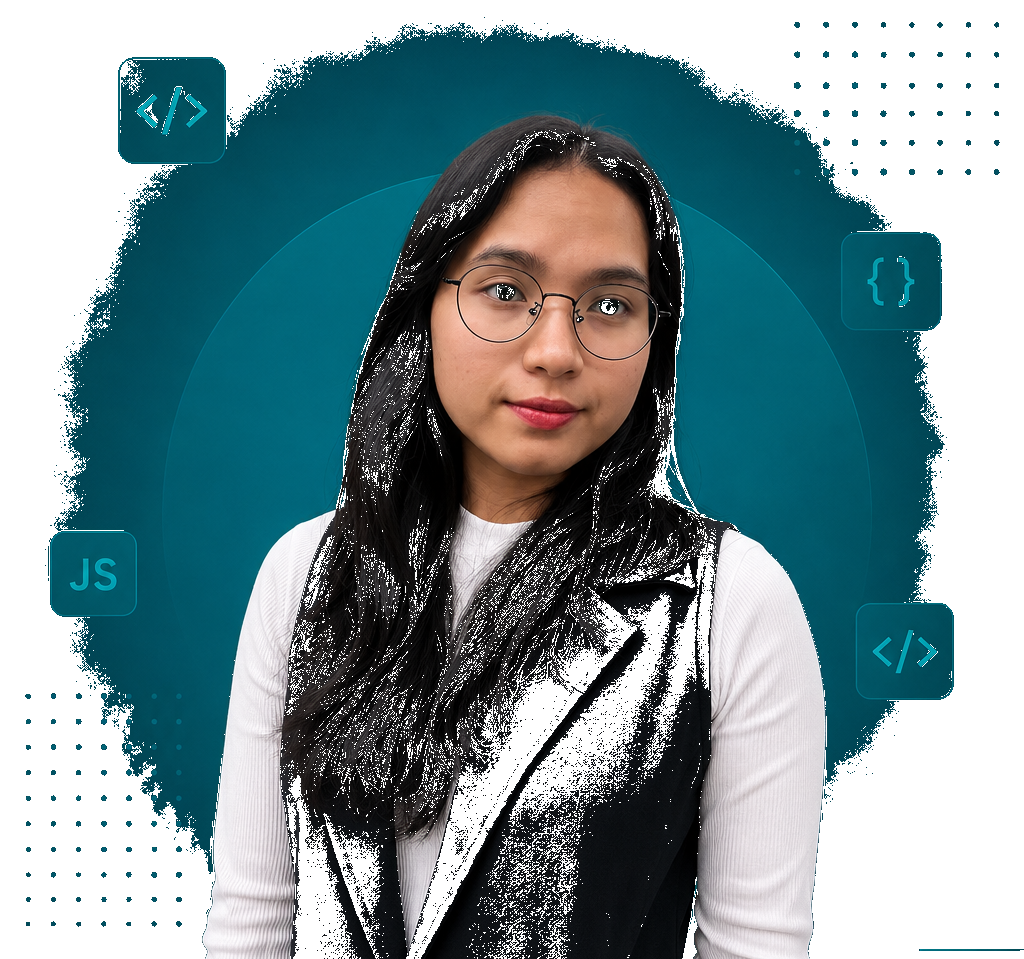
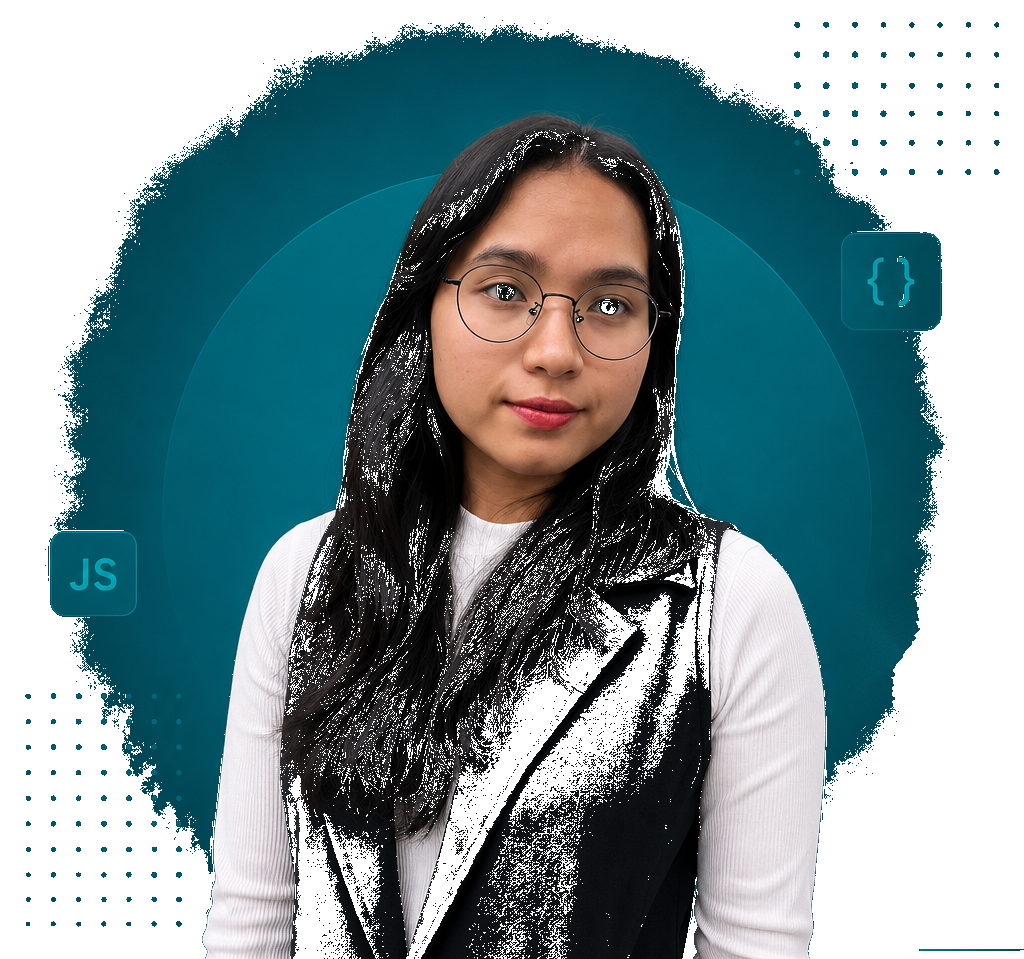
adjust profile pic

Changed region(s): [[0.0938, 0.0605, 0.25, 0.1814], [0.8438, 0.6048, 0.9375, 0.756]]

diff --git a/frontend/src/data.js b/frontend/src/data.js
@@ -17,7 +17,7 @@ export const stats = [
   { value: 3, suffix: '+', label: 'Full-stack projects' },
   { value: 1, suffix: '', label: 'Research publication' },
   { value: 3, suffix: ' mo', label: 'Industry internship' },
-  { value: 8.0, suffix: '', label: 'CGPA / 10', decimals: 1 },
+  { value: 8.01, suffix: '', label: 'CGPA / 10', decimals: 2 },
 ];
 
 export const experience = [
@@ -38,5 +38,5 @@ export const education = {
   degree: 'B.Tech in Computer Science & Engineering',
   school: 'Parul University, Vadodara',
   period: 'Expected May 2027',
-  grade: 'CGPA 8.0 / 10',
+  grade: 'CGPA 8.01 / 10',
 };

diff --git a/frontend/src/index.css b/frontend/src/index.css
@@ -364,11 +364,15 @@ img { max-width: 100%; }
   position: absolute;
   top: 50%;
   left: 50%;
+  width: 0;
+  height: 0;
+  transform-origin: 0 0; /* rotate around the circle's centre, not the chip's own centre */
   transform: rotate(var(--angle)) translateX(var(--r));
 }
 
 .orbit-chip span {
   display: block;
+  width: max-content;
   transform: translate(-50%, -50%) rotate(calc(-1 * var(--angle)));
   font-family: var(--mono);
   font-size: 0.68rem;
